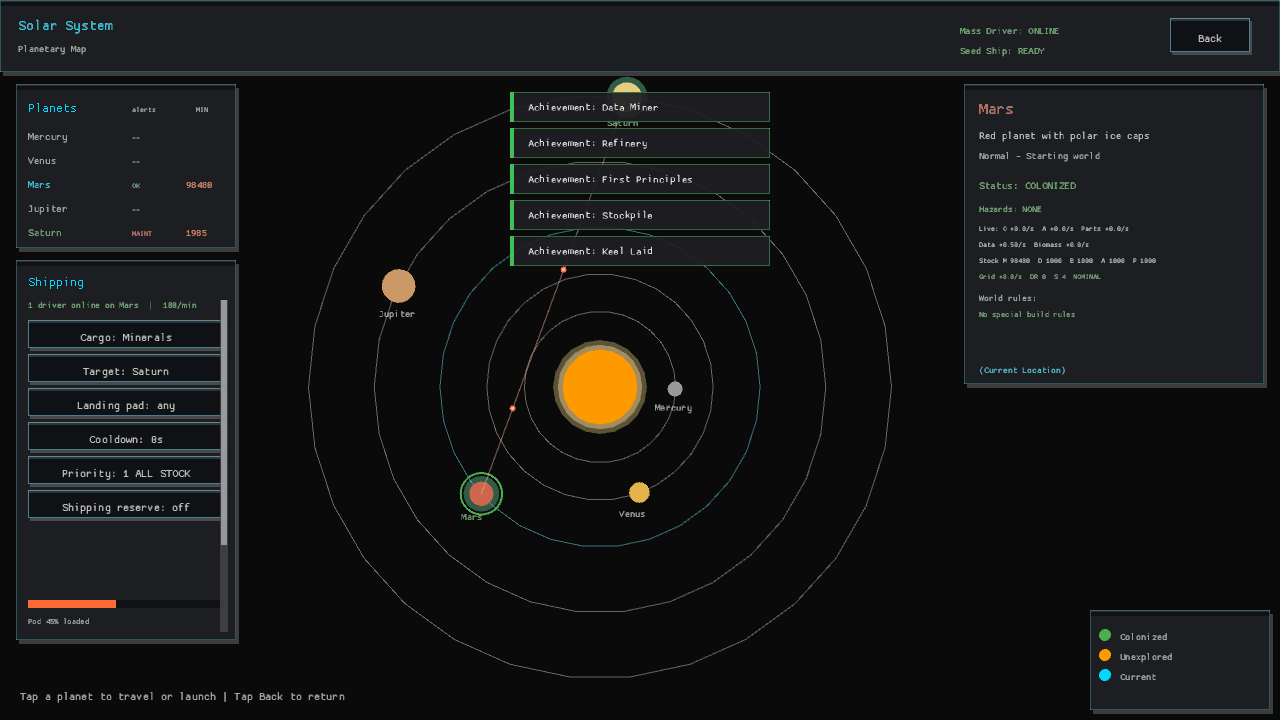
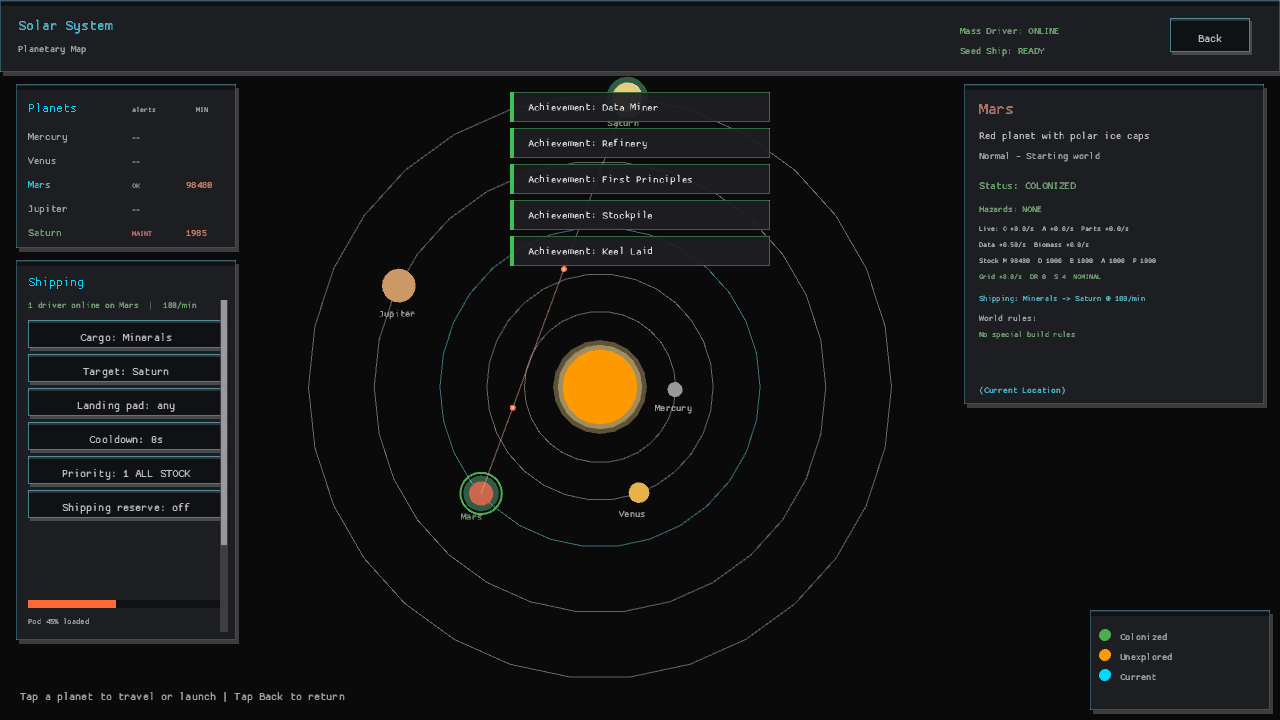
The dossier shows where the freight is going (remote shipping route guidance, GDD 4)
World dossiers now surface each standing freight route with its cargo, destination, and nominal throughput. Desktop and portrait layouts reserve space for the summary, while compact phone cards keep their existing fit. Regression coverage, README guidance, and refreshed verification captures document the player-facing route check.

Changed region(s): [[0.75, 0.3972, 1.0, 0.5806], [0.8438, 0.3972, 0.875, 0.4278]]

diff --git a/src/screens/interplanetary_view.rs b/src/screens/interplanetary_view.rs
@@ -11,8 +11,8 @@ use macroquad::prelude::*;
 use macroquad_toolkit::ui::{draw_ui_text, note_neighbour, touch_area, Pointer, ScrollArea};
 use status::{launch_action, launch_prompt, mass_driver_status_label, seed_ship_status_label};
 use world_dossier::{
-    draw_world_telemetry, hazard_color, hazard_summary, world_alert_code, world_alert_color,
-    world_rule_lines, world_telemetry_height,
+    draw_world_telemetry, hazard_color, hazard_summary, shipping_summary, world_alert_code,
+    world_alert_color, world_rule_lines, world_telemetry_height,
 };
 
 /// Actions from the interplanetary view
@@ -474,9 +474,15 @@ fn draw_planet_info(
     let planet = &view.data.planets[index];
     let is_colonized = view.colonized.get(index).copied().unwrap_or(false);
     let is_current = index == view.current_planet;
+    let shipping = shipping_summary(
+        view.data,
+        view.orders.get(index).copied().flatten(),
+        view.export_rates.get(index).copied().unwrap_or(0.0),
+    );
 
     let panel_w = PLANET_INFO_WIDTH;
-    let panel_h = 300.0;
+    let shipping_offset = if shipping.is_some() { 20.0 } else { 0.0 };
+    let panel_h = 300.0 + shipping_offset;
     let panel_x = screen_w - panel_w - PLANET_INFO_MARGIN;
     let panel_y = header_height + 12.0;
     draw_panel(panel_x, panel_y, panel_w, panel_h);
@@ -523,12 +529,21 @@ fn draw_planet_info(
         draw_world_telemetry(&telemetry, panel_x + 15.0, panel_y + 147.0);
     }
 
-    let rules_y = panel_y
-        + if telemetry.is_some() {
-            147.0 + world_telemetry_height()
-        } else {
-            149.0
-        };
+    let info_end = if telemetry.is_some() {
+        147.0 + world_telemetry_height()
+    } else {
+        149.0
+    };
+    if let Some(shipping) = shipping.as_deref() {
+        draw_ui_text(
+            shipping,
+            panel_x + 15.0,
+            panel_y + info_end,
+            10.0,
+            Colors::PRIMARY,
+        );
+    }
+    let rules_y = panel_y + info_end + shipping_offset;
     draw_ui_text(
         "World rules:",
         panel_x + 15.0,
@@ -552,7 +567,7 @@ fn draw_planet_info(
         );
     }
 
-    let action_y = panel_y + if telemetry.is_some() { 289.0 } else { 213.0 };
+    let action_y = panel_y + if telemetry.is_some() { 289.0 } else { 213.0 } + shipping_offset;
     if is_current {
         draw_ui_text(
             "(Current Location)",

diff --git a/src/screens/interplanetary_view/mobile.rs b/src/screens/interplanetary_view/mobile.rs
@@ -143,7 +143,12 @@ fn draw_mobile_planet_info(
     let is_colonized = view.colonized.get(index).copied().unwrap_or(false);
     let is_current = index == view.current_planet;
     let telemetry = view.telemetry.get(index).copied().flatten();
-    let panel_h = mobile_info_height(screen_h, telemetry.is_some());
+    let shipping = super::shipping_summary(
+        view.data,
+        view.orders.get(index).copied().flatten(),
+        view.export_rates.get(index).copied().unwrap_or(0.0),
+    );
+    let panel_h = mobile_info_height(screen_h, telemetry.is_some(), shipping.is_some());
     let text_w = (width - 30.0).max(40.0);
     draw_panel(x, y, width, panel_h);
     if screen_h < 560.0 {
@@ -342,6 +347,16 @@ fn draw_mobile_planet_info(
         );
         next_y += 46.0;
     }
+    if let Some(shipping) = shipping.as_deref() {
+        draw_ui_text(
+            &truncate_text_to_width(shipping, text_w, 9.0),
+            x + 15.0,
+            next_y,
+            9.0,
+            Colors::PRIMARY,
+        );
+        next_y += 18.0;
+    }
     draw_ui_text("World rules:", x + 15.0, next_y, 10.0, Colors::TEXT_DIM);
     let rules = world_rule_lines(view.data, index);
     for (rule_index, rule) in rules.iter().take(3).enumerate() {
@@ -386,7 +401,7 @@ fn draw_mobile_planet_info(
     );
 }
 
-fn mobile_info_height(screen_h: f32, has_telemetry: bool) -> f32 {
+fn mobile_info_height(screen_h: f32, has_telemetry: bool, has_shipping: bool) -> f32 {
     if screen_h < 560.0 {
         if has_telemetry {
             124.0
@@ -394,7 +409,7 @@ fn mobile_info_height(screen_h: f32, has_telemetry: bool) -> f32 {
             96.0
         }
     } else {
-        250.0
+        250.0 + if has_shipping { 18.0 } else { 0.0 }
     }
 }
 

diff --git a/src/screens/interplanetary_view/tests.rs b/src/screens/interplanetary_view/tests.rs
@@ -36,7 +36,7 @@ fn shipping_status_distinguishes_absent_and_offline_landing_pads() {
 }
 use super::world_dossier::world_telemetry_row_y;
 use super::{
-    solar_map_layout, world_alert_code, world_rule_lines, world_telemetry_height,
+    shipping_summary, solar_map_layout, world_alert_code, world_rule_lines, world_telemetry_height,
     MIN_SOLAR_MAP_SCALE,
 };
 
@@ -188,4 +188,20 @@ fn dossier_rules_name_the_power_route_for_hostile_worlds() {
     assert!(world_rule_lines(data.data(), 3)
         .iter()
         .any(|line| line == "Power source: Fusion Reactor"));
+}
+
+#[test]
+fn dossier_can_name_a_worlds_standing_shipping_route() {
+    let data = crate::data::test_data();
+    let order = crate::state::ExportOrder {
+        target: 4,
+        cargo: crate::engine::ResourceType::Minerals,
+        ..crate::state::ExportOrder::default()
+    };
+
+    assert_eq!(
+        shipping_summary(data.data(), Some(order), 180.0),
+        Some("Shipping: Minerals -> Saturn @ 180/min".to_string())
+    );
+    assert!(shipping_summary(data.data(), None, 0.0).is_none());
 }

diff --git a/src/screens/interplanetary_view/world_dossier.rs b/src/screens/interplanetary_view/world_dossier.rs
@@ -1,6 +1,6 @@
 //! World dossier details shared by the desktop map and portrait map.
 
-use crate::state::{WorldAlert, WorldTelemetry};
+use crate::state::{cargo_name, ExportOrder, WorldAlert, WorldTelemetry};
 use crate::ui::Colors;
 use macroquad::prelude::*;
 use macroquad_toolkit::ui::draw_ui_text;
@@ -14,6 +14,22 @@ pub(super) fn world_telemetry_row_y(y: f32, row: usize) -> f32 {
 
 pub(super) fn world_telemetry_height() -> f32 {
     TELEMETRY_LINE_HEIGHT * 4.0 + TELEMETRY_BOTTOM_GAP
+}
+
+/// The standing freight order for a world, short enough to share its dossier
+/// with the live telemetry and construction rules.
+pub(super) fn shipping_summary(
+    data: &crate::data::GameData,
+    order: Option<ExportOrder>,
+    rate_per_minute: f32,
+) -> Option<String> {
+    let order = order?;
+    Some(format!(
+        "Shipping: {} -> {} @ {:.0}/min",
+        cargo_name(order.cargo),
+        data.planet(order.target).name,
+        rate_per_minute.max(0.0)
+    ))
 }
 
 pub(super) fn draw_world_telemetry(telemetry: &WorldTelemetry, x: f32, y: f32) {

diff --git a/src/screens/interplanetary_view/mobile/tests.rs b/src/screens/interplanetary_view/mobile/tests.rs
@@ -3,14 +3,15 @@ use super::mobile_info_height;
 #[test]
 fn short_phone_dossier_stays_above_the_footer() {
     let list_bottom = 156.0 + 44.0 + crate::state::PLANET_COUNT as f32 * 24.0;
-    let dossier_bottom = list_bottom + 10.0 + mobile_info_height(480.0, true);
+    let dossier_bottom = list_bottom + 10.0 + mobile_info_height(480.0, true, false);
 
-    assert_eq!(mobile_info_height(480.0, false), 96.0);
-    assert_eq!(mobile_info_height(480.0, true), 124.0);
+    assert_eq!(mobile_info_height(480.0, false, false), 96.0);
+    assert_eq!(mobile_info_height(480.0, true, false), 124.0);
     assert!(dossier_bottom <= 454.0);
 }
 
 #[test]
 fn regular_phone_dossier_keeps_the_full_world_summary() {
-    assert_eq!(mobile_info_height(640.0, true), 250.0);
+    assert_eq!(mobile_info_height(640.0, true, false), 250.0);
+    assert_eq!(mobile_info_height(640.0, true, true), 268.0);
 }

diff --git a/README.md b/README.md
@@ -26,6 +26,9 @@ The swarm is powerful, but every expansion changes the terrain, stresses the gri
 - The Solar System dossier also previews each world's construction bans and
   infrastructure requirements before the Seed Ship leaves, including the
   authored Geothermal and Fusion power routes for hostile worlds.
+- A colonized world's dossier also names its standing freight route and
+  nominal cargo rate, so remote supply chains can be checked from the Worlds
+  view before opening Shipping controls.
 
 ## Goal
 
